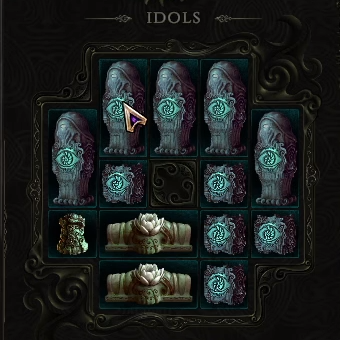
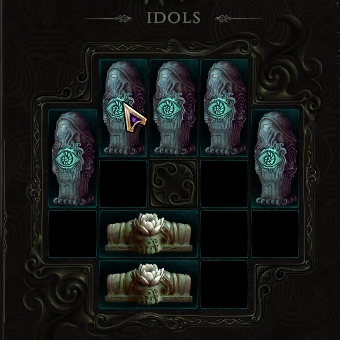
almost works - need to scale and debug placement :(

Changed region(s): [[0.5882, 0.4706, 0.8824, 0.9118], [0.2941, 0.4706, 0.4412, 0.6176], [0.1471, 0.6176, 0.2941, 0.7647]]

diff --git a/epog/framework/screen/idol_screen.py b/epog/framework/screen/idol_screen.py
@@ -1,4 +1,5 @@
 from operator import attrgetter
+from framework.logic.item_db import get_image_from_db
 from framework.util.util import SCREEN_RECT
 from framework.button.rotating_button import RotatingButton
 from framework.screen import Screen
@@ -41,6 +42,11 @@ def pos_to_grid(mouse_pos):
     
     return i, j
 
+def grid_to_pos(grid_pos):
+    left, top, length, gap = GRID_ORIGIN
+    left, top, length, gap = int(left), int(top), int(length), int(gap)
+
+    return left + grid_pos[1] * (gap + length), top + grid_pos[1] * (gap + length)
 
 class IdolScreen(Screen):
     def __init__(self, *args, **kwargs):
@@ -85,6 +91,21 @@ class IdolScreen(Screen):
             elif name == 'Idol':
                 button.objects = self.all_idols
                 button.key = attrgetter('name')
+
+    def draw_buttons(self, debug=False):
+        rv =  super().draw_buttons(debug)
+
+        for idol, _, _ in self.locked_idols:
+            image = get_image_from_db(idol.name)
+            for i,row in enumerate(self.grid):
+                for j, cell in enumerate(row):
+                    if cell == idol:
+                        origin = grid_to_pos((i, j))
+                        origin = self.origin[0] + origin[0], self.origin[1] + origin[1]
+                        self.surface.blit(image, origin)
+                        
+
+        return rv
 
     def handle_mouse_down_event(self, event, debug):
         mouse_pos = pygame.mouse.get_pos()

diff --git a/epog/framework/screen/screen.py b/epog/framework/screen/screen.py
@@ -94,6 +94,13 @@ class Screen:
         x2,y2 = last_pos
         self.buttons.append(Button(last_pos, x1-x2, y1-y2, name=f'Temp-{x2}:{y2}'))
 
+    def draw_buttons(self, debug):
+        mouse_pos = pygame.mouse.get_pos()
+        for button in self.buttons:
+                button.draw(self.surface, debug=debug)
+                if button.check_collision(mouse_pos):
+                    button.hover(self.surface)                            
+            
     def mainloop(self, debug=False):
         return self._mainloop(debug=debug)
 
@@ -110,13 +117,8 @@ class Screen:
             if self.image:
                 self.surface.blit(self.image, self.origin)
 
-            mouse_pos = pygame.mouse.get_pos()
+            self.draw_buttons(debug)
 
-            for button in self.buttons:
-                button.draw(self.surface, debug=debug)
-                if button.check_collision(mouse_pos):
-                    button.hover(self.surface)                            
-            
             for event in pygame.event.get():
                 if event.type == pygame.QUIT:
                     quit_func()
